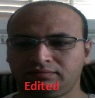
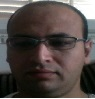
responsive image at edit contact modal
.img-fluid class is add to img element

Changed region(s): [[0.2526, 0.7879, 0.6316, 0.9394]]

diff --git a/src/client/app/edit-contact-modal/edit-contact-modal.component.ts b/src/client/app/edit-contact-modal/edit-contact-modal.component.ts
@@ -138,8 +138,8 @@ export class EditContactModalComponent implements OnInit {
     this.imageBase64["data"] = btoa(binaryString);
   }
   
-  editContactId(contactId, addNewContactModal) {
-    this.addContactModal.open(addNewContactModal, {ariaLabelledBy: 'modal-basic-title', size: 'lg'}).result.then((result) => {
+  editContactId(contactId, editContactModal) {
+    this.addContactModal.open(editContactModal, {ariaLabelledBy: 'modal-basic-title', size: 'lg'}).result.then((result) => {
       this.closeResult = `Closed with: ${result}`;
       console.log('result from add-contact-modal.component.ts');
       console.log(result);
@@ -200,9 +200,10 @@ export class EditContactModalComponent implements OnInit {
           this.loading = false;
           this.editContactForm.reset(this.editContactForm.value);
         } else {
-          this.editContactForm.reset();
+          //this.editContactForm.reset();
           this.loading = false;
-          this.contactEdited = data;
+          this.contactEdited = data.value;
+          console.log(this.contactEdited);
           this.api.makeRefresh();
        }
       }); 

diff --git a/src/client/app/edit-contact-modal/edit-contact-modal.component.html b/src/client/app/edit-contact-modal/edit-contact-modal.component.html
@@ -21,11 +21,11 @@
         </div>
         <form class="ui big form" [formGroup]="editContactForm" (ngSubmit)="onSubmit()" [class.loading]="loading" novalidate>
           <div class="equal width fields">
-            <div class="three wide field">
+            <div class="field">
               <div class="image">
                 <div *ngIf="contact.photoUrl.data; then binaryImage else serverImage"></div>
-                  <ng-template #binaryImage> <img [src]="contact?.photoUrl.data" width="140" height="160"> </ng-template>
-                  <ng-template #serverImage> <img [src]="contact?.photoUrl" width="140" height="160"> </ng-template>
+                  <ng-template #binaryImage> <img class="img-fluid" [src]="contact?.photoUrl.data"> </ng-template>
+                  <ng-template #serverImage> <img class="img-fluid" [src]="contact?.photoUrl"> </ng-template>
               </div>
             </div>
             <div class="field">
